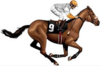
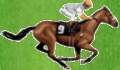
interficie acabada

diff --git a/src/TrivialClass.java b/src/TrivialClass.java
@@ -1,3 +1,4 @@
+import java.awt.Button;
 import java.awt.Color;
 import java.awt.Container;
 import java.awt.Dimension;
@@ -37,6 +38,11 @@ public class TrivialClass extends JFrame {
 
 		tablero.setLayout(new GridLayout(2, 1));
 		panel.setLayout(new GridBagLayout());
+		
+		GridBagConstraints posicionBoton = new GridBagConstraints();
+		posicionBoton.gridx = 0;
+		posicionBoton.gridy = 0;
+		posicionBoton.insets = new Insets(0, 0, -200, 0);
 
 		GridBagConstraints tableroConstraint = new GridBagConstraints();
 		tableroConstraint.gridx = 0;
@@ -93,7 +99,7 @@ public class TrivialClass extends JFrame {
 			jugador1 = ImageIO.read(new File("caballo.PNG"));
 			jugador2 = ImageIO.read(new File("caballo2.PNG"));
 			pasto = ImageIO.read(new File("pasto.jpg"));
-			meta = ImageIO.read(new File("pasto.jpg"));
+			meta = ImageIO.read(new File("meta.jpg"));
 
 		} catch (IOException e) {
 			// TODO Auto-generated catch block
@@ -121,12 +127,20 @@ public class TrivialClass extends JFrame {
 		imagenesJugador1[0] = new JLabel(new ImageIcon(jugador1));
 		imagenesJugador2[0] = new JLabel(new ImageIcon(jugador2));
 
-		for (int i = 1; i < imagenesJugador1.length; i++) {
+		for (int i = 1; i < (imagenesJugador1.length - 1) ; i++) {
 
 			imagenesJugador1[i] = new JLabel(new ImageIcon(pasto));
 			imagenesJugador2[i] = new JLabel(new ImageIcon(pasto));
 
 		}
+		imagenesJugador1[7] = new JLabel(new ImageIcon(meta));
+		imagenesJugador2[7] = new JLabel(new ImageIcon(meta));
+		
+		
+		Button botonPregunta = new Button("Preguntas");
+		botonPregunta.setPreferredSize(new Dimension(10, 10));
+		botonPregunta.setBackground(Color.decode("#CDFA4A"));
+		botonPregunta.setFont(new Font("Sans-Serif", Font.BOLD, 18));
 
 		for (int i = 0; i < imagenesJugador1.length; i++) {
 			imagenesJugador1[i].setPreferredSize(new Dimension(100, 40));
@@ -136,6 +150,7 @@ public class TrivialClass extends JFrame {
 			imagenesJugador2[i].setPreferredSize(new Dimension(100, 40));
 			tablero.add(imagenesJugador2[i], tableroConstraint);
 		}
+		panel.add(botonPregunta, posicionBoton);
 		tablero.setBorder(bordeTablero);
 		tablero.setPreferredSize(new Dimension(100, 100));
 
@@ -148,6 +163,7 @@ public class TrivialClass extends JFrame {
 		cp.add(panelTextoPuntuacion, posicionPuntuacion);
 		cp.add(panelTextoTurno, posicionTurno);
 		cp.add(tablero, posicionTablero);
+		cp.add(botonPregunta, posicionBoton);
 
 	}
 
